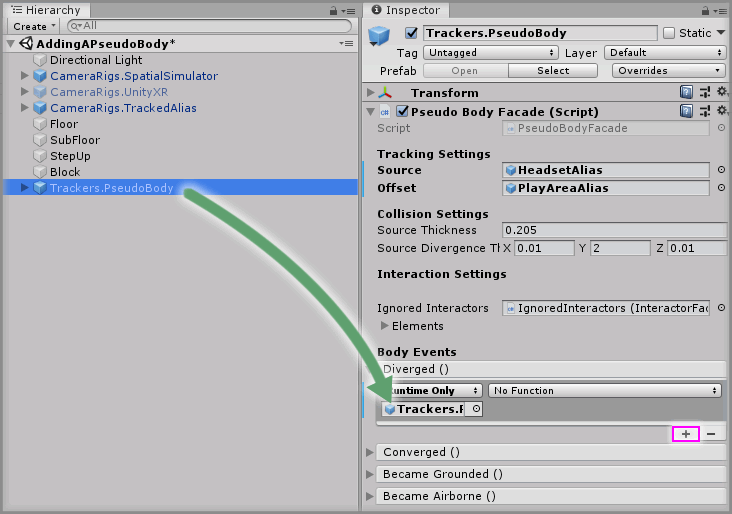
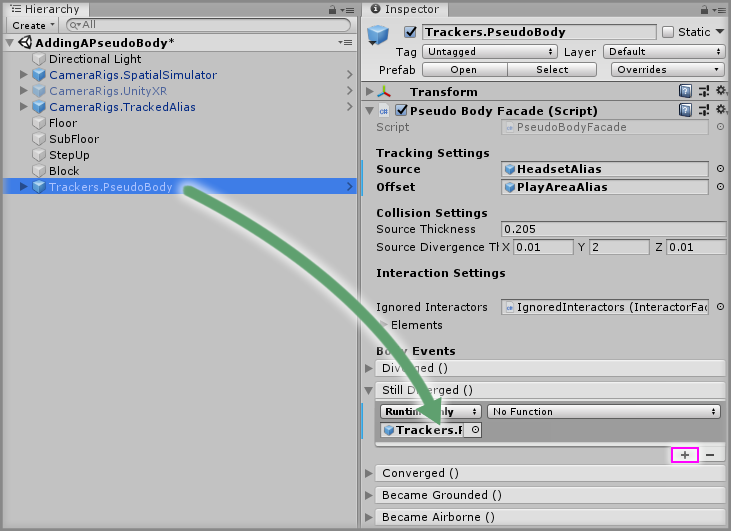
feat(HowToGuides): update adding a pseudo body to use still diverged
The StillDiverged event is the more appropriate event to use when
calling SolveBodyCollisions as it will keep solving for as long as the
diverge continues.

Changed region(s): [[0.0, 0.0, 1.0, 0.9961]]

diff --git a/Documentation/HowToGuides/AddingAPseudoBody/README.md b/Documentation/HowToGuides/AddingAPseudoBody/README.md
@@ -91,13 +91,13 @@ We can prevent the ability to walk into walls in a number of ways, such as simpl
 
 Let's look at resolving this divergence between the headset and the Pseudo Body collider by setting the user's position back to the safe state that the collider is in.
 
-Select the `Trackers.PseudoBody` GameObject from the Unity Hierarchy and click the `+` symbol in the bottom right corner of the `Diverged` event parameter on the `Pseudo Body Facade` component.
+Select the `Trackers.PseudoBody` GameObject from the Unity Hierarchy and click the `+` symbol in the bottom right corner of the `Still Diverged` event parameter on the `Pseudo Body Facade` component.
 
-Drag and drop the `Trackers.PseudoBody` GameObject into the event listener box that appears on the `Diverged` event parameter on the `Pseudo Body Facade` component that displays `None (Object)`.
+Drag and drop the `Trackers.PseudoBody` GameObject into the event listener box that appears on the `Still Diverged` event parameter on the `Pseudo Body Facade` component that displays `None (Object)`.
 
 ![Drag And Drop Trackers PseudoBody Into Diverged Parameter](assets/images/DragAndDropTrackersPseudoBodyIntoDivergedParameter.png)
 
-Select a function to perform when the `Diverged` event is emitted. For this example, select the `PseudoBodyFacade -> SolveBodyCollisions` function.
+Select a function to perform when the `Still Diverged` event is emitted. For this example, select the `PseudoBodyFacade -> SolveBodyCollisions` function.
 
 ![Select Solve Body Collisions Function](assets/images/SelectSolveBodyCollisionsFunction.png)
 
